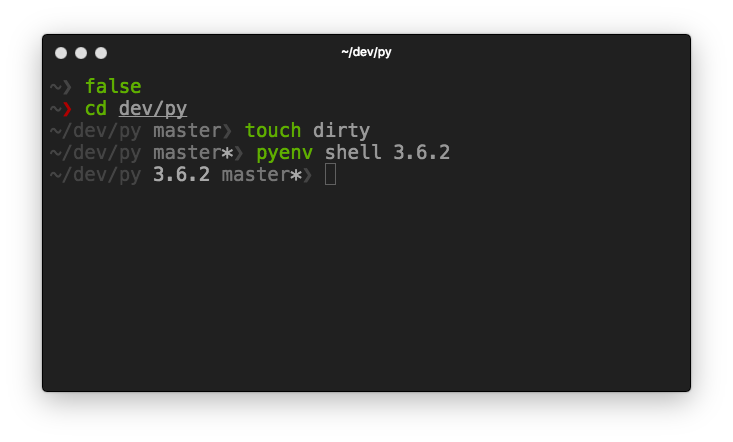
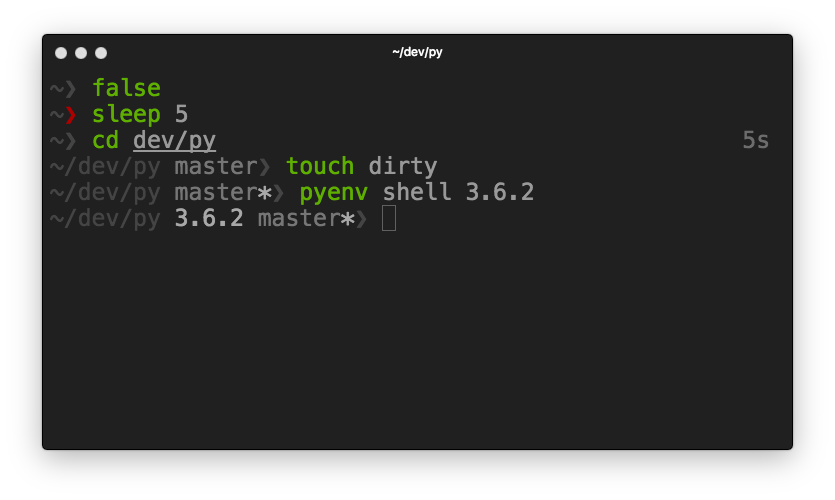
Update to a wider screenshot with command timing

Changed region(s): [[0.03, 0.0588, 0.9604, 0.9118], [0.4502, 0.4412, 0.4802, 0.4706]]

diff --git a/README.md b/README.md
@@ -2,6 +2,6 @@
 
 A low constrast theme that still looks good.
 
-<img src="screenshot.png" width="733">
+<img src="screenshot.png" width="835">
 
 It shows the current git branch, if the repository is dirty and the value of `$PYENV_VERSION`.
